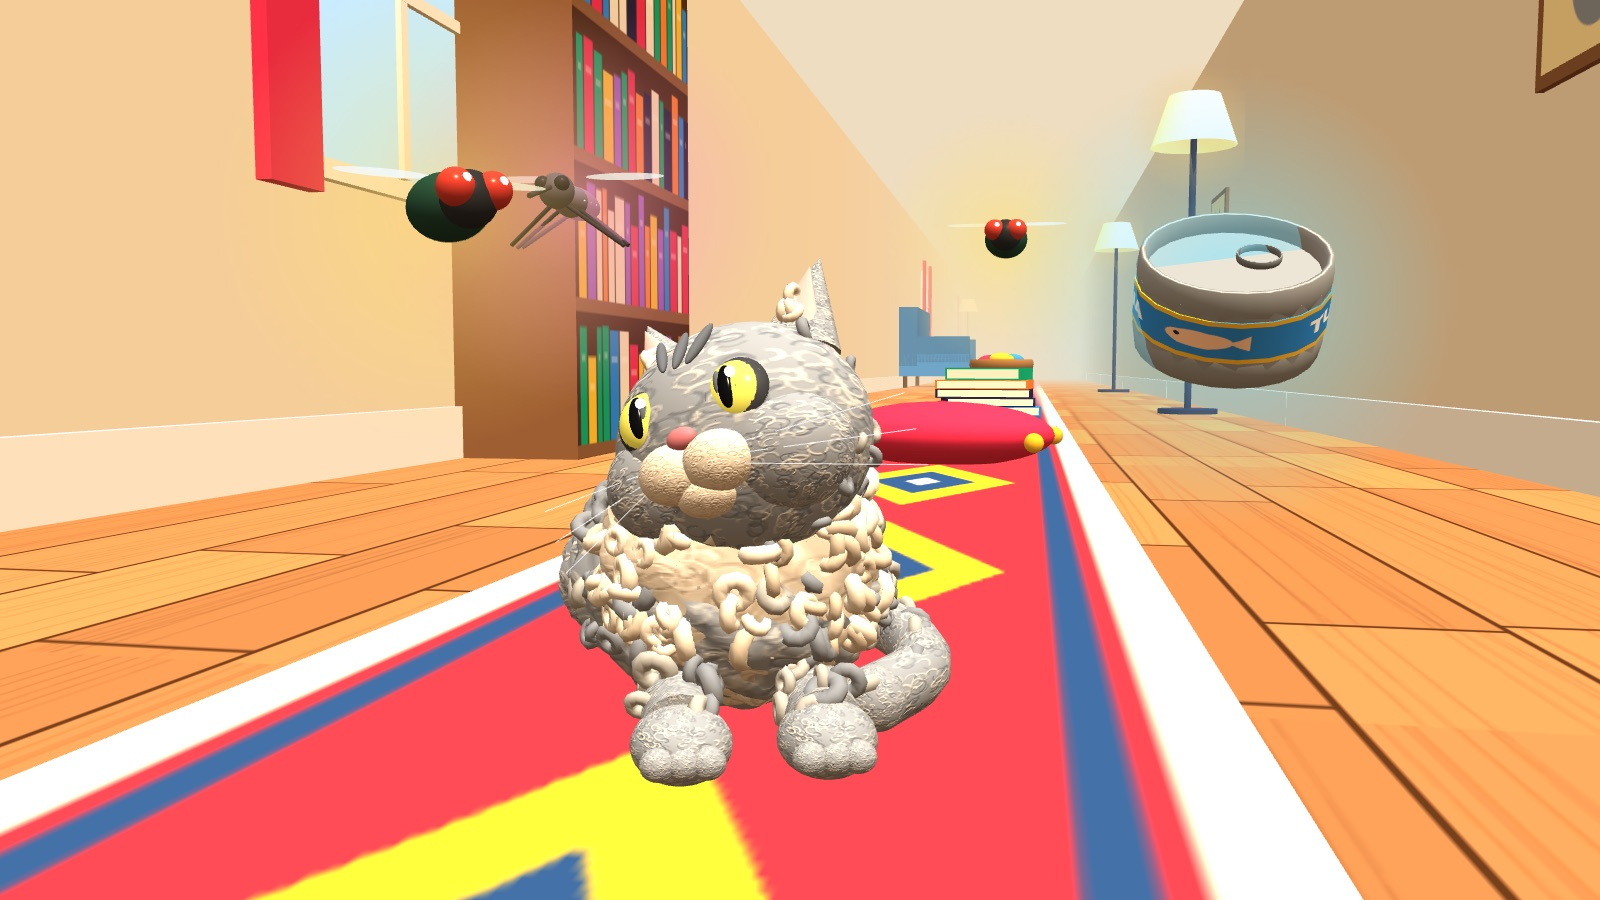
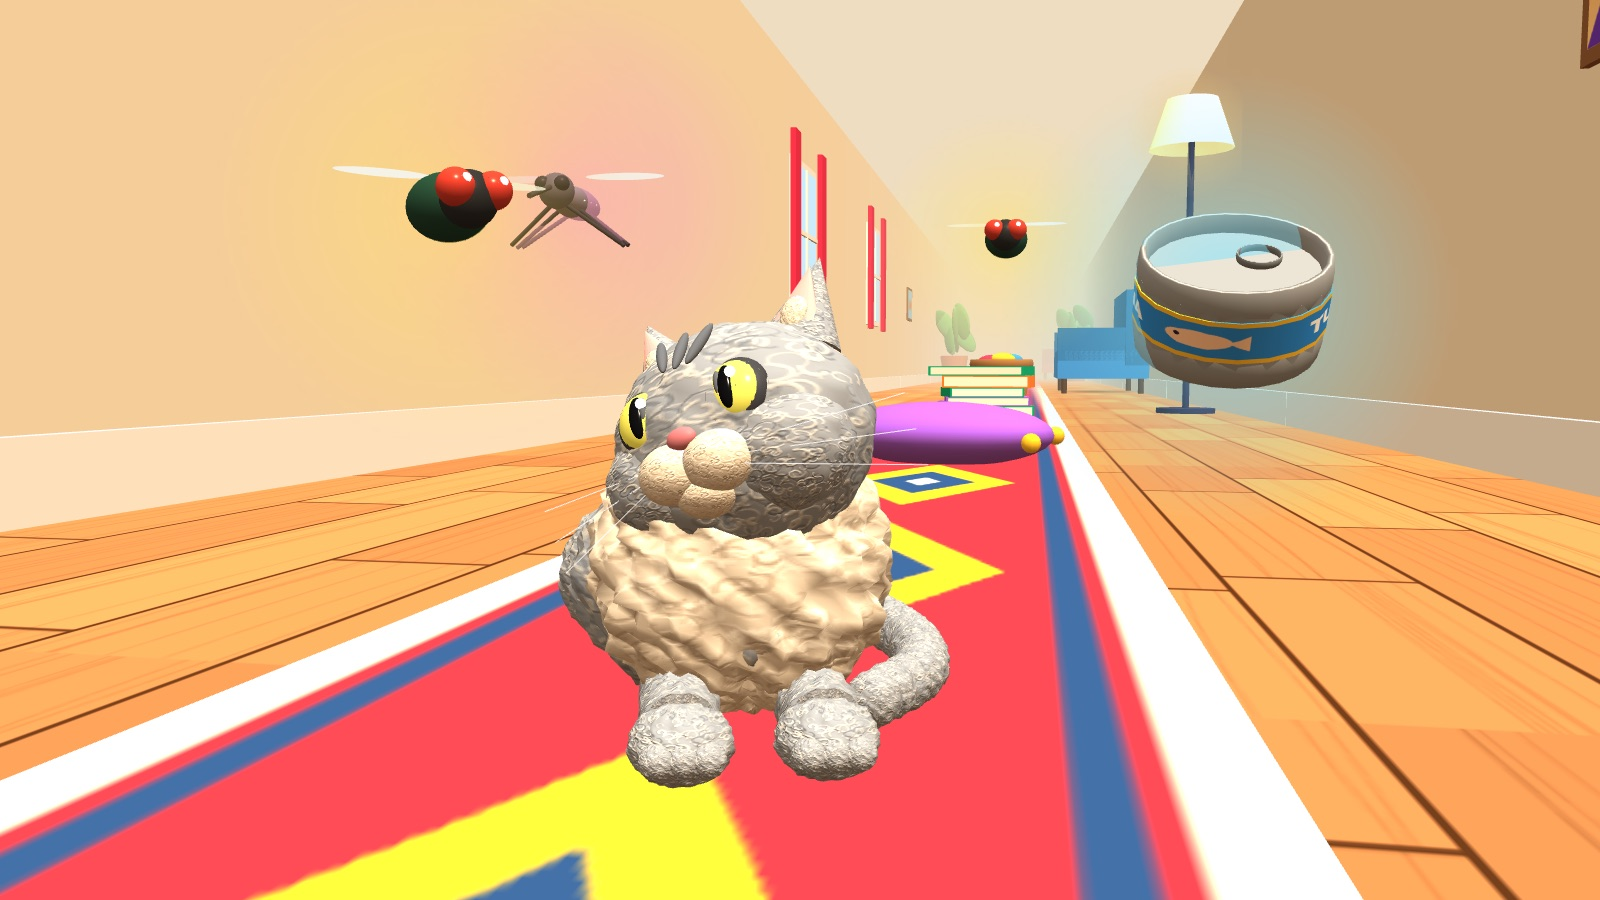
Floofiness: give the title cat a bumpy curly coat instead of ring curls
The scattered torus curls looked like noodles up close. The body, chest
ruff, head, legs and tail now use the same bumpy surface as the in-game
paws, and the cover is re-rendered to match.

diff --git a/public/games/floofiness/index.html b/public/games/floofiness/index.html
@@ -350,7 +350,7 @@ const G={
   box:new THREE.BoxGeometry(1,1,1),sph:new THREE.SphereGeometry(1,24,16),lo:new THREE.SphereGeometry(1,10,8),
   cyl:new THREE.CylinderGeometry(1,1,1,20),cyl8:new THREE.CylinderGeometry(1,1,1,8),cone:new THREE.ConeGeometry(1,1,18),
   plane:new THREE.PlaneGeometry(1,1),circle:new THREE.CircleGeometry(1,24),
-  curl:new THREE.TorusGeometry(1,.68,6,10),ring:new THREE.TorusGeometry(1,.06,6,26),
+  ring:new THREE.TorusGeometry(1,.06,6,26),
   basket:new THREE.CylinderGeometry(.55,.45,.62,22,1,true),bowl:new THREE.CylinderGeometry(.34,.26,.16,24),
   bucket:new THREE.CylinderGeometry(.36,.3,.55,22,1,true),half:new THREE.TorusGeometry(.36,.022,6,20,Math.PI),
   pot:new THREE.CylinderGeometry(.33,.24,.45,18),shade:new THREE.CylinderGeometry(.3,.5,.6,18,1,true),
@@ -359,6 +359,8 @@ const G={
 function lumpy(geo,amp,f){const p=geo.attributes.position,v=new THREE.Vector3();for(let i=0;i<p.count;i++){v.fromBufferAttribute(p,i);const n=Math.sin(v.x*f+1.3)*Math.sin(v.y*f*1.1+.7)*Math.sin(v.z*f*.9+2.1)+.5*Math.sin(v.x*f*2.3+v.z*f*1.7)*Math.sin(v.y*f*2.1+.4);p.setXYZ(i,v.x*(1+amp*n),v.y*(1+amp*n*.6),v.z*(1+amp*n));}geo.computeVertexNormals();return geo;}
 G.lumpy=lumpy(new THREE.SphereGeometry(1,44,32),.07,9);
 G.lumpyArm=lumpy(new THREE.CylinderGeometry(1,1,1,28,12),.1,11);
+G.ruff=lumpy(new THREE.SphereGeometry(1,56,40),.1,15);
+G.lumpyHead=lumpy(new THREE.SphereGeometry(1,48,36),.03,10);
 const MC={};
 function L(color,o){const k='L'+color+(o?JSON.stringify(o):'');return MC[k]||(MC[k]=new THREE.MeshLambertMaterial(Object.assign({color},o||{})));}
 function S(color,rough=.6,metal=0,o){const k='S'+color+rough+metal+(o?JSON.stringify(o):'');return MC[k]||(MC[k]=new THREE.MeshStandardMaterial(Object.assign({color,roughness:rough,metalness:metal},o||{})));}
@@ -371,7 +373,7 @@ const BRIGHT=[0xe8304f,0x2f86e0,0xf5be2c,0x9a5ad6,0x15a36f,0xf77f2e,0xff7fbf];
 const M={
   fur:new THREE.MeshStandardMaterial({map:T.fur,bumpMap:T.fur,bumpScale:.004,roughness:1}),
   cream:new THREE.MeshStandardMaterial({map:T.cream,bumpMap:T.cream,bumpScale:.004,roughness:1}),
-  curlG:S(0x80848d,1),curlL:S(0xa9a7a3,1),curlC:S(0xe6dac8,1),curlC2:S(0xc9b8a2,1),puffL:new THREE.MeshStandardMaterial({map:T.cream,color:0xd7d3cc,roughness:1}),
+  puffL:new THREE.MeshStandardMaterial({map:T.cream,color:0xd7d3cc,roughness:1}),
   iris:new THREE.MeshStandardMaterial({color:0xc4be5c,roughness:.2,emissive:0x2c2c08}),
   pupil:S(0x0e0e10,.15),rim:S(0x3b3b40,.5),glint:B(0xffffff),earIn:S(0xe8aaa7,.8),nose:S(0xc8737a,.45),stripe:S(0x5c6069,1),bean:S(0xd98c95,.6),
   shadow:new THREE.MeshBasicMaterial({map:T.shadow,transparent:true,depthWrite:false,opacity:.75}),
@@ -384,41 +386,27 @@ function glowMat(color,opacity=.55){return new THREE.SpriteMaterial({map:T.glow,
 const GLOW={fly:glowMat(0xffe46b),mosq:glowMat(0xff8fd8),tuna:glowMat(0x7fe3ff,.7),lamp:glowMat(0xffc46b,.7),firefly:glowMat(0xd8ff7a,.9)};
 function sprite(mat,x,y,z,s,parent){const sp=new THREE.Sprite(mat);sp.position.set(x,y,z);sp.scale.set(s,s,s);if(parent)parent.add(sp);return sp;}
 
-/* curly-fur bumps: little torus rings scattered on an ellipsoid surface */
-function addCurls(parent,c,r,n,mats,size,ok){
-  for(let i=0;i<n;i++){
-    const u=new THREE.Vector3(rand(-1,1),rand(-1,1),rand(-1,1)).normalize();
-    if(ok&&!ok(u)){i--;continue;}
-    const m=mk(G.curl,pick(mats),c.x+u.x*r.x,c.y+u.y*r.y,c.z+u.z*r.z,size*rand(.7,1.25),parent);
-    m.rotation.set(rand(0,TAU),rand(0,TAU),rand(0,TAU));
-  }
-}
 
 /* ---------- the cat (title screen and cover): modelled on a curly grey Selkirk Rex ---------- */
 function makeCat(){
   const cat=new THREE.Group();
   mk(G.lumpy,M.fur,0,.2,-.05,.27,.21,.42,cat);
   mk(G.lumpy,M.fur,.15,.16,-.27,.16,.15,.2,cat);mk(G.lumpy,M.fur,-.15,.16,-.27,.16,.15,.2,cat);
-  mk(G.lumpy,M.cream,0,.26,.2,.215,.22,.17,cat);
-  addCurls(cat,V3(0,.2,-.05),V3(.27,.21,.42),170,[M.curlG,M.curlL,M.curlG],.018,u=>u.y>-.35);
-  addCurls(cat,V3(0,.26,.2),V3(.215,.22,.17),110,[M.curlC,M.curlC2,M.curlC],.019,u=>u.z>-.1&&u.y>-.5);
+  mk(G.ruff,M.cream,0,.265,.235,.225,.225,.165,cat);
+  mk(G.ruff,M.cream,0,.17,.24,.17,.13,.12,cat);
   for(const sx of[-1,1]){
-    const leg=mk(G.cyl,M.fur,sx*.1,.06,.32,.056,.22,.056,cat);leg.rotation.x=Math.PI/2;
-    mk(G.sph,M.fur,sx*.1,.05,.44,.07,.052,.08,cat);
-    for(let i=0;i<3;i++)mk(G.sph,M.fur,sx*.1+(i-1)*.032,.045,.508,.025,.022,.024,cat);
-    addCurls(cat,V3(sx*.1,.07,.33),V3(.06,.06,.12),14,[M.curlG,M.curlL],.018,u=>u.y>-.2);
+    const leg=mk(G.lumpyArm,M.fur,sx*.1,.06,.32,.058,.22,.058,cat);leg.rotation.x=Math.PI/2;
+    mk(G.lumpy,M.fur,sx*.1,.05,.44,.072,.054,.082,cat);
+    for(let i=0;i<3;i++)mk(G.lumpy,M.fur,sx*.1+(i-1)*.032,.048,.505,.026,.024,.026,cat);
   }
   const curve=new THREE.CatmullRomCurve3([V3(.05,.14,-.44),V3(.24,.07,-.42),V3(.34,.05,-.16),V3(.31,.05,.1),V3(.2,.05,.26)]);
-  cat.add(new THREE.Mesh(new THREE.TubeGeometry(curve,30,.052,10,false),M.fur));
-  mk(G.sph,M.fur,.2,.05,.26,.052,cat);
-  curve.getSpacedPoints(16).forEach(p=>{const m=mk(G.curl,pick([M.curlG,M.curlL]),p.x+rand(-.03,.03),p.y+rand(0,.04),p.z+rand(-.03,.03),.02,cat);m.rotation.set(rand(0,TAU),rand(0,TAU),0);});
+  curve.getSpacedPoints(18).forEach((p,i)=>{const r=.058-i*.0008;mk(G.lumpy,M.fur,p.x,p.y,p.z,r,r,r,cat).rotation.set(i,i*.7,0);});
 
   const head=new THREE.Group();head.position.set(0,.45,.27);cat.add(head);
-  mk(G.sph,M.fur,0,0,0,.2,.176,.172,head);
-  addCurls(head,V3(0,0,0),V3(.2,.176,.172),50,[M.curlG,M.curlL],.013,u=>u.z<.25);
+  mk(G.lumpyHead,M.fur,0,0,0,.2,.176,.172,head);
   const eyes=[];
   for(const sx of[-1,1]){
-    mk(G.sph,M.fur,sx*.095,-.055,.055,.1,.088,.095,head);
+    mk(G.lumpyHead,M.fur,sx*.095,-.055,.055,.1,.088,.095,head);
     mk(G.sph,M.cream,sx*.036,-.077,.142,.052,.043,.046,head);
     const eye=new THREE.Group();eye.position.set(sx*.074,.014,.138);head.add(eye);
     mk(G.sph,M.rim,0,0,-.004,.05,.05,.03,eye);
@@ -429,7 +417,7 @@ function makeCat(){
     const ear=new THREE.Group();ear.position.set(sx*.112,.128,-.005);ear.rotation.set(-.1,0,-sx*.36);head.add(ear);
     mk(G.cone,M.fur,0,.065,0,.072,.15,.045,ear);
     mk(G.cone,M.earIn,0,.058,.02,.05,.115,.018,ear);
-    for(let i=0;i<4;i++){const m=mk(G.curl,M.curlC,rand(-.02,.02),rand(.02,.07),.035,.012,ear);m.rotation.set(rand(0,3),rand(0,3),0);}
+    mk(G.lumpy,M.cream,0,.03,.03,.022,.03,.012,ear);
   }
   mk(G.sph,M.cream,0,-.112,.118,.046,.03,.042,head);
   mk(G.sph,M.nose,0,-.042,.172,.023,.016,.013,head);
